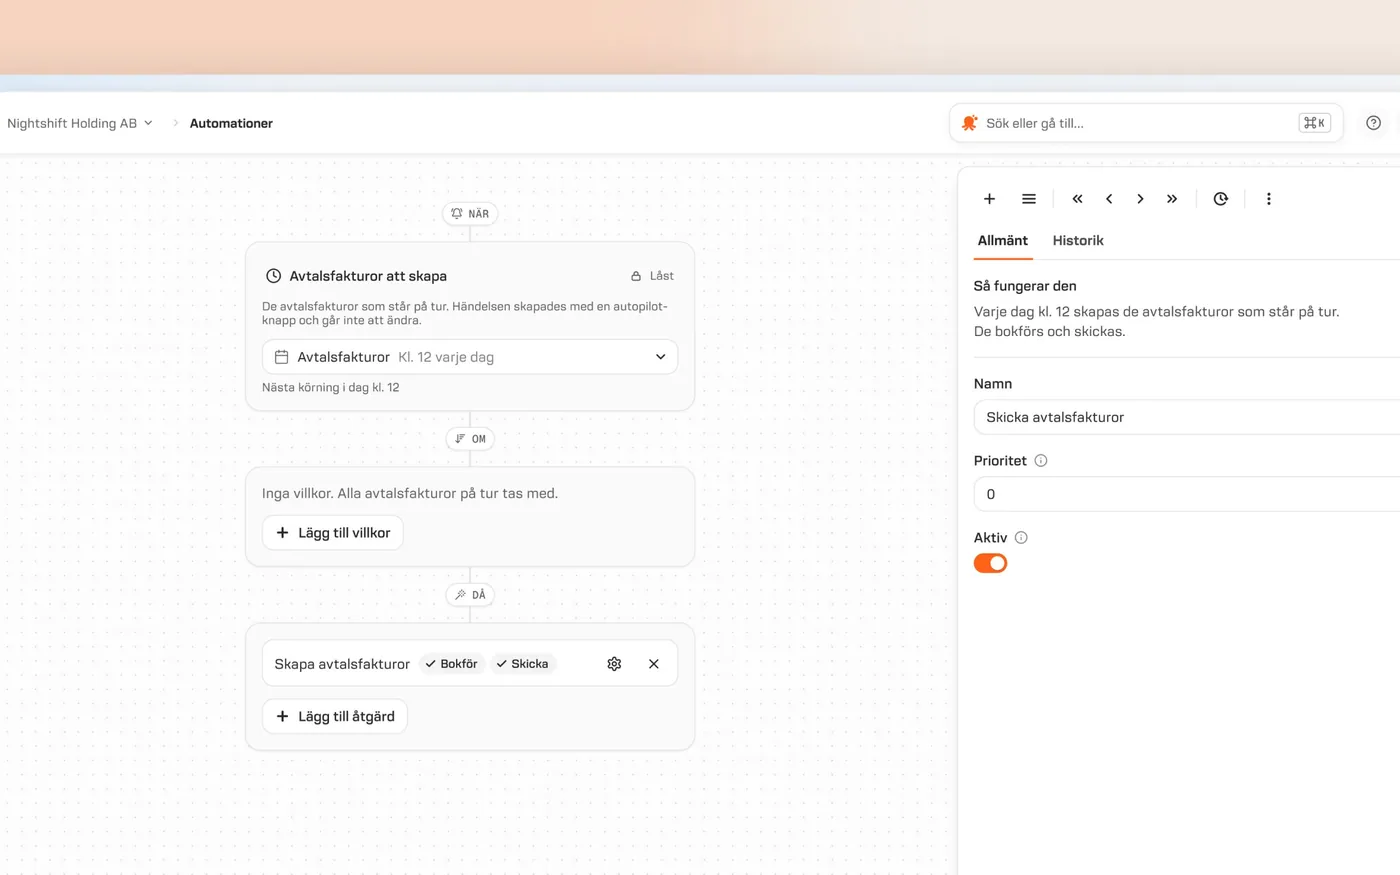
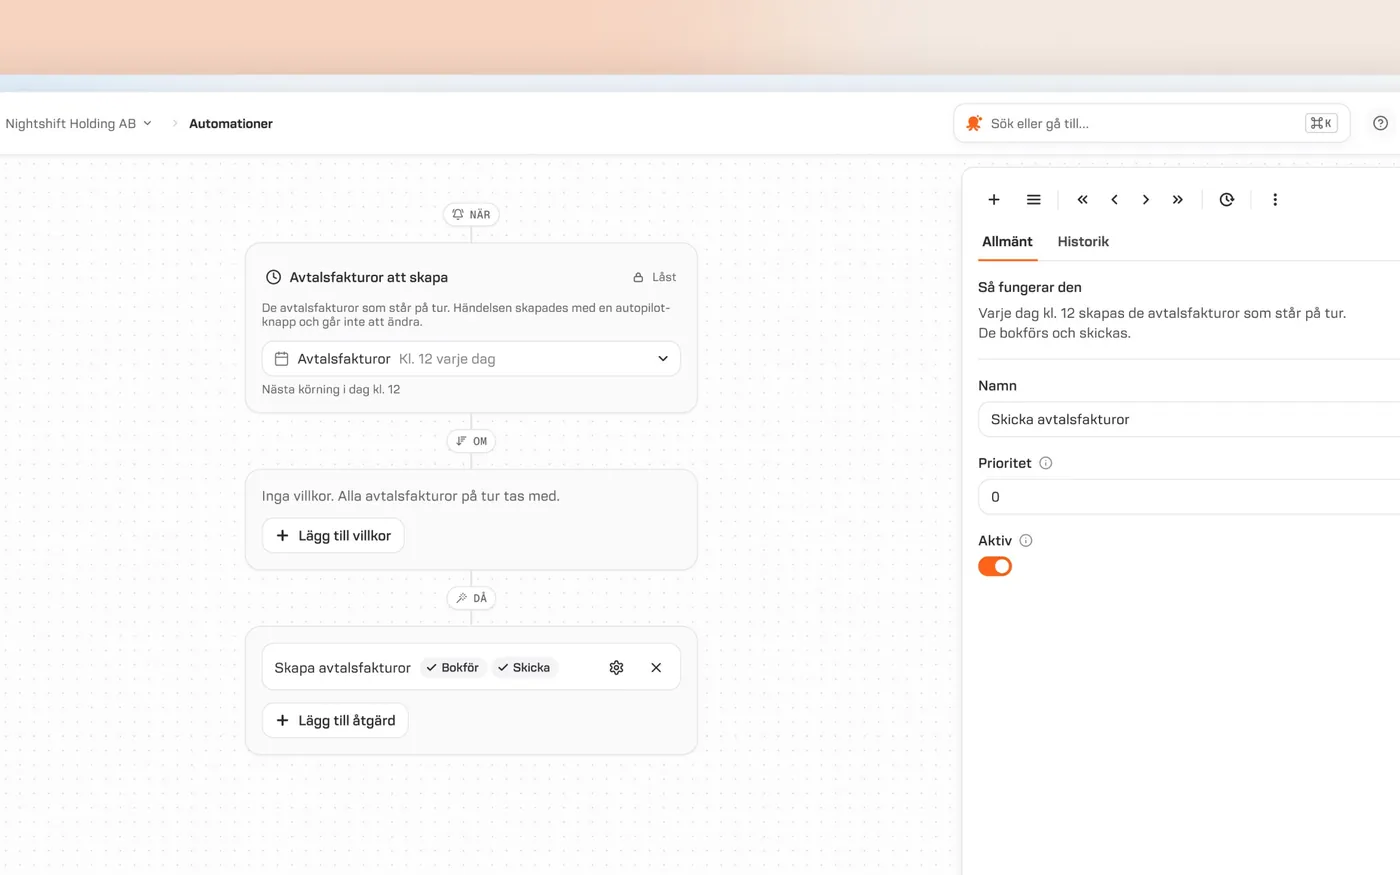
Oqto: slower hero lines, narrower Autopilot card and resized screen
Claude-Session: https://claude.ai/code/session_01T8AAM769pNUjzneeyTgJVR

diff --git a/docs/oqto/index.html b/docs/oqto/index.html
@@ -17,7 +17,7 @@
 <link rel="apple-touch-icon" href="../apple-touch-icon.png">
 <link rel="preload" href="../fonts/familjen-grotesk-latin-wght-normal.woff2" as="font" type="font/woff2" crossorigin>
 <link rel="stylesheet" href="../css/base.css?v=b94be2dc">
-<link rel="stylesheet" href="../css/oqto.css?v=e81a2f30">
+<link rel="stylesheet" href="../css/oqto.css?v=cc079173">
 <link rel="stylesheet" href="../css/site.css?v=345346bf">
 <script>(function(){try{try{localStorage.removeItem("theme")}catch(e){}var t=sessionStorage.getItem("theme");if(t==="dk"||t==="lt")document.documentElement.classList.add(t)}catch(e){}})();</script>
 <noscript><style>.rv{opacity:1!important}.rv .zm,.rv .st,.rv .bl{transform:none!important}.rv .st span{opacity:1!important}.rv .ck path{stroke-dashoffset:0!important}.ic .s{stroke-dashoffset:0!important}.ic .nd{transform:none!important}</style></noscript>
@@ -114,7 +114,7 @@
 </div>
 </div>
 <div data-px="1" data-rv="6" data-lb="1" tabindex="0" role="button" aria-label="Enlarge image" class="rv c-clip"><img class="zm px" src="../assets/oqto-screens-1400.webp?v=df0c9d02" srcset="../assets/oqto-screens-800.webp?v=8f604210 800w, ../assets/oqto-screens-1400.webp?v=df0c9d02 1400w, ../assets/oqto-screens.webp?v=95bce654 2400w" sizes="(min-width: 1440px) 1200px, 92vw" data-lbsrc="../assets/oqto-screens.webp?v=95bce654" loading="lazy" decoding="async" alt="Oqto screens in an isometric grid, including the command palette, month-end closing and a customer invoice in dark mode" width="2400" height="1500"></div>
-<div data-rv="5" data-lb="1" tabindex="0" role="button" aria-label="Enlarge image" class="rv c-clip"><div class="zm an ap"><img src="../assets/oqto-autopilot-screen-1400.webp?v=68519617" srcset="../assets/oqto-autopilot-screen-800.webp?v=9b5673f3 800w, ../assets/oqto-autopilot-screen-1400.webp?v=68519617 1400w, ../assets/oqto-autopilot-screen.webp?v=a3b65554 2400w" sizes="(min-width: 1440px) 1200px, 92vw" loading="lazy" decoding="async" data-lbsrc="../assets/oqto-autopilot.webp?v=fb879221" alt="The automation editor in Oqto with a when, if and then flow, and the automation’s card on top" width="2400" height="1500">
+<div data-rv="5" data-lb="1" tabindex="0" role="button" aria-label="Enlarge image" class="rv c-clip"><div class="zm an ap"><img src="../assets/oqto-autopilot-screen-1400.webp?v=e877b4d3" srcset="../assets/oqto-autopilot-screen-800.webp?v=689e47ad 800w, ../assets/oqto-autopilot-screen-1400.webp?v=e877b4d3 1400w, ../assets/oqto-autopilot-screen.webp?v=055c99a0 2400w" sizes="(min-width: 1440px) 1200px, 92vw" loading="lazy" decoding="async" data-lbsrc="../assets/oqto-autopilot.webp?v=69045211" alt="The automation editor in Oqto with a when, if and then flow, and the automation’s card on top" width="2400" height="1500">
 <div aria-hidden="true"><i class="fl f1"></i><i class="fl f2"></i><i class="fl f3"></i><i class="fl f4"></i><i class="fl f5"></i><i data-rv="8" class="ac rv c-e239d3"></i></div></div></div>
 </section>
 

diff --git a/docs/css/oqto.css b/docs/css/oqto.css
@@ -10,9 +10,9 @@
 .ck{left:71.278%;top:76.72%;width:2.134%;overflow:visible;fill:none;stroke:#fff;stroke-width:12.8;stroke-linecap:round;stroke-linejoin:round}
 .ck path{stroke-dasharray:1;stroke-dashoffset:0}
 .ap{container-type:inline-size}
-.ac{left:59.375%;top:69.05%;width:34.375%;aspect-ratio:1100/509;border-radius:2.545%/5.5%;background-size:cover;box-shadow:0 1.25cqw 3.44cqw rgba(60,40,20,.3),0 .125cqw .375cqw rgba(60,40,20,.1)}
-.fl{left:33.5%;width:.125%;height:2%;background:#FF6319;border-radius:999px;opacity:0;transform-origin:50% 0}
-.f1{top:25.667%}.f2{top:46.867%}.f3{top:51.4%}.f4{top:64.733%}.f5{top:69.2%;height:2.067%}
+.ac{left:65.406%;top:68.6%;width:28.125%;aspect-ratio:900/520;border-radius:3.222%/5.577%;background-size:cover;box-shadow:0 1.25cqw 3.44cqw rgba(60,40,20,.3),0 .125cqw .375cqw rgba(60,40,20,.1)}
+.fl{left:33.585%;width:.126%;height:2.05%;background:#FF6319;border-radius:999px;opacity:0;transform-origin:50% 0}
+.f1{top:25.78%}.f2{top:47.13%}.f3{top:51.67%}.f4{top:65.07%}.f5{top:69.6%;height:2.1%}
 .ld .li{position:absolute;inset:-1px;width:calc(100% + 2px);height:calc(100% + 2px);clip-path:polygon(0 0,53.125% 0,31.25% 100%,0 100%)}
 .cl{display:flex;aspect-ratio:16/10;container-type:inline-size}
 .st{position:relative;transform-origin:50% 100%}
@@ -29,8 +29,8 @@
 @keyframes ocB{from{transform:translate(-6%,10%)}to{transform:translate(8%,-16%)}}
 .hq{animation:hl1 6s cubic-bezier(.45,0,.2,1) 1s infinite}
 .q2{animation-name:hl2}
-@keyframes hl1{0%{opacity:1;transform:scaleX(0)}7%{opacity:1;transform:scaleX(1)}30%{opacity:1;transform:scaleX(1)}40%,100%{opacity:0;transform:scaleX(1)}}
-@keyframes hl2{0%,7%{opacity:1;transform:scaleX(0)}14%{opacity:1;transform:scaleX(1)}30%{opacity:1;transform:scaleX(1)}40%,100%{opacity:0;transform:scaleX(1)}}
+@keyframes hl1{0%{opacity:1;transform:scaleX(0)}12%{opacity:1;transform:scaleX(1)}36%{opacity:1;transform:scaleX(1)}46%,100%{opacity:0;transform:scaleX(1)}}
+@keyframes hl2{0%,12%{opacity:1;transform:scaleX(0)}24%{opacity:1;transform:scaleX(1)}36%{opacity:1;transform:scaleX(1)}46%,100%{opacity:0;transform:scaleX(1)}}
 .sw{animation:swT 5s cubic-bezier(.4,0,.2,1) 1s infinite}
 .sw i{animation:swK 5s cubic-bezier(.4,0,.2,1) 1s infinite}
 @keyframes swT{0%,30%{background:#FF6319}38%,62%{background:#CFCBC6}70%,100%{background:#FF6319}}

diff --git a/site/css/oqto.css b/site/css/oqto.css
@@ -10,9 +10,9 @@
 .ck{left:71.278%;top:76.72%;width:2.134%;overflow:visible;fill:none;stroke:#fff;stroke-width:12.8;stroke-linecap:round;stroke-linejoin:round}
 .ck path{stroke-dasharray:1;stroke-dashoffset:0}
 .ap{container-type:inline-size}
-.ac{left:59.375%;top:69.05%;width:34.375%;aspect-ratio:1100/509;border-radius:2.545%/5.5%;background-size:cover;box-shadow:0 1.25cqw 3.44cqw rgba(60,40,20,.3),0 .125cqw .375cqw rgba(60,40,20,.1)}
-.fl{left:33.5%;width:.125%;height:2%;background:#FF6319;border-radius:999px;opacity:0;transform-origin:50% 0}
-.f1{top:25.667%}.f2{top:46.867%}.f3{top:51.4%}.f4{top:64.733%}.f5{top:69.2%;height:2.067%}
+.ac{left:65.406%;top:68.6%;width:28.125%;aspect-ratio:900/520;border-radius:3.222%/5.577%;background-size:cover;box-shadow:0 1.25cqw 3.44cqw rgba(60,40,20,.3),0 .125cqw .375cqw rgba(60,40,20,.1)}
+.fl{left:33.585%;width:.126%;height:2.05%;background:#FF6319;border-radius:999px;opacity:0;transform-origin:50% 0}
+.f1{top:25.78%}.f2{top:47.13%}.f3{top:51.67%}.f4{top:65.07%}.f5{top:69.6%;height:2.1%}
 .ld .li{position:absolute;inset:-1px;width:calc(100% + 2px);height:calc(100% + 2px);clip-path:polygon(0 0,53.125% 0,31.25% 100%,0 100%)}
 .cl{display:flex;aspect-ratio:16/10;container-type:inline-size}
 .st{position:relative;transform-origin:50% 100%}
@@ -29,8 +29,8 @@
 @keyframes ocB{from{transform:translate(-6%,10%)}to{transform:translate(8%,-16%)}}
 .hq{animation:hl1 6s cubic-bezier(.45,0,.2,1) 1s infinite}
 .q2{animation-name:hl2}
-@keyframes hl1{0%{opacity:1;transform:scaleX(0)}7%{opacity:1;transform:scaleX(1)}30%{opacity:1;transform:scaleX(1)}40%,100%{opacity:0;transform:scaleX(1)}}
-@keyframes hl2{0%,7%{opacity:1;transform:scaleX(0)}14%{opacity:1;transform:scaleX(1)}30%{opacity:1;transform:scaleX(1)}40%,100%{opacity:0;transform:scaleX(1)}}
+@keyframes hl1{0%{opacity:1;transform:scaleX(0)}12%{opacity:1;transform:scaleX(1)}36%{opacity:1;transform:scaleX(1)}46%,100%{opacity:0;transform:scaleX(1)}}
+@keyframes hl2{0%,12%{opacity:1;transform:scaleX(0)}24%{opacity:1;transform:scaleX(1)}36%{opacity:1;transform:scaleX(1)}46%,100%{opacity:0;transform:scaleX(1)}}
 .sw{animation:swT 5s cubic-bezier(.4,0,.2,1) 1s infinite}
 .sw i{animation:swK 5s cubic-bezier(.4,0,.2,1) 1s infinite}
 @keyframes swT{0%,30%{background:#FF6319}38%,62%{background:#CFCBC6}70%,100%{background:#FF6319}}

diff --git a/docs/css/main.css b/docs/css/main.css
@@ -49,8 +49,8 @@ html.dk :is(#work,#services,#about)::before{background:#2A2A28}}
 @keyframes ocB{from{transform:translate(-6%,10%)}to{transform:translate(8%,-16%)}}
 .hq{animation:hl1 6s cubic-bezier(.45,0,.2,1) 1s infinite}
 .q2{animation-name:hl2}
-@keyframes hl1{0%{opacity:1;transform:scaleX(0)}7%{opacity:1;transform:scaleX(1)}30%{opacity:1;transform:scaleX(1)}40%,100%{opacity:0;transform:scaleX(1)}}
-@keyframes hl2{0%,7%{opacity:1;transform:scaleX(0)}14%{opacity:1;transform:scaleX(1)}30%{opacity:1;transform:scaleX(1)}40%,100%{opacity:0;transform:scaleX(1)}}
+@keyframes hl1{0%{opacity:1;transform:scaleX(0)}12%{opacity:1;transform:scaleX(1)}36%{opacity:1;transform:scaleX(1)}46%,100%{opacity:0;transform:scaleX(1)}}
+@keyframes hl2{0%,12%{opacity:1;transform:scaleX(0)}24%{opacity:1;transform:scaleX(1)}36%{opacity:1;transform:scaleX(1)}46%,100%{opacity:0;transform:scaleX(1)}}
 .sw{animation:swT 5s cubic-bezier(.4,0,.2,1) 1s infinite}
 .sw i{animation:swK 5s cubic-bezier(.4,0,.2,1) 1s infinite}
 @keyframes swT{0%,30%{background:#FF6319}38%,62%{background:#CFCBC6}70%,100%{background:#FF6319}}

diff --git a/site/css/main.css b/site/css/main.css
@@ -49,8 +49,8 @@ html.dk :is(#work,#services,#about)::before{background:#2A2A28}}
 @keyframes ocB{from{transform:translate(-6%,10%)}to{transform:translate(8%,-16%)}}
 .hq{animation:hl1 6s cubic-bezier(.45,0,.2,1) 1s infinite}
 .q2{animation-name:hl2}
-@keyframes hl1{0%{opacity:1;transform:scaleX(0)}7%{opacity:1;transform:scaleX(1)}30%{opacity:1;transform:scaleX(1)}40%,100%{opacity:0;transform:scaleX(1)}}
-@keyframes hl2{0%,7%{opacity:1;transform:scaleX(0)}14%{opacity:1;transform:scaleX(1)}30%{opacity:1;transform:scaleX(1)}40%,100%{opacity:0;transform:scaleX(1)}}
+@keyframes hl1{0%{opacity:1;transform:scaleX(0)}12%{opacity:1;transform:scaleX(1)}36%{opacity:1;transform:scaleX(1)}46%,100%{opacity:0;transform:scaleX(1)}}
+@keyframes hl2{0%,12%{opacity:1;transform:scaleX(0)}24%{opacity:1;transform:scaleX(1)}36%{opacity:1;transform:scaleX(1)}46%,100%{opacity:0;transform:scaleX(1)}}
 .sw{animation:swT 5s cubic-bezier(.4,0,.2,1) 1s infinite}
 .sw i{animation:swK 5s cubic-bezier(.4,0,.2,1) 1s infinite}
 @keyframes swT{0%,30%{background:#FF6319}38%,62%{background:#CFCBC6}70%,100%{background:#FF6319}}

diff --git a/docs/index.html b/docs/index.html
@@ -18,7 +18,7 @@
 <link rel="apple-touch-icon" href="apple-touch-icon.png">
 <link rel="preload" href="fonts/familjen-grotesk-latin-wght-normal.woff2" as="font" type="font/woff2" crossorigin>
 <link rel="stylesheet" href="css/base.css?v=b94be2dc">
-<link rel="stylesheet" href="css/main.css?v=3cedf044">
+<link rel="stylesheet" href="css/main.css?v=dbe5a1f5">
 <link rel="stylesheet" href="css/site.css?v=345346bf">
 <script>(function(){try{try{localStorage.removeItem("theme")}catch(e){}var t=sessionStorage.getItem("theme");if(t==="dk"||t==="lt")document.documentElement.classList.add(t)}catch(e){}})();</script>
 <noscript><style>.rv{opacity:1!important}.rv .zm,.rv .st,.rv .bl{transform:none!important}.rv .st span{opacity:1!important}.rv .ck path{stroke-dashoffset:0!important}.ic .s{stroke-dashoffset:0!important}.ic .nd{transform:none!important}</style></noscript>

diff --git a/site/build.py b/site/build.py
@@ -21,8 +21,8 @@ ASSETS = {
     "c34dd534a3003ee261711ca87890d62c": "oqto-dark.jpg", "b7a1f7ae78d363ddf79c024ff4bfa8f4": "oqto-light.jpg",
     "c34b591a7f8fddf09f75926bdbe9cb4d": "oqto-screens.jpg", "9aed89d8ef290ab64dbcbde6ca8f4fda": "oqto-screens.jpg", "6f9deb035305d822828b08e689c25451": "oqto-screens.jpg", "58bfc0c4270a375bc74b6d5220c08759": "oqto-screens.jpg",
     "58de01b9072eda84254cd01a48c40ef2": "oqto-hero.jpg", "39ef734d077cfb8ce0194b15663db30b": "oqto-hero-full.jpg",
-    "00db4c69fd2e0aa038586b4ba858594d": "oqto-autopilot-screen.jpg", "ada73faea49793362f20003dd2f82501": "oqto-autopilot.jpg",
-    "a8b8fe48d8d800eca11038860916017b": "oqto-autopilot-card.jpg", "9aa647c4ebf37b042b20b8b87da433a1": "oqto-components.jpg", "65ae19d31029925e96dfdd8e898d1392": "oqto-components.jpg",
+    "61a378bf7433de32c670c178063634b2": "oqto-autopilot-screen.jpg", "383cff83cd54a399877734eba3790234": "oqto-autopilot.jpg",
+    "43354ec57226250cefeb1cbb4d54810b": "oqto-autopilot-card.jpg", "9aa647c4ebf37b042b20b8b87da433a1": "oqto-components.jpg", "65ae19d31029925e96dfdd8e898d1392": "oqto-components.jpg",
     "a06f2b58758b6fb555fed11e960a2e03": "oqto-app.jpg", "e12f6c6e1533b4a8be48896524a14591": "oqto-app.jpg",
     "637462e7e8cb1a3e784b541fafad197d": "tink-logo.jpg", "d231f1039acc7b8c33ee891994a401d8": "tink-logo.jpg", "6e3a6e0409bc43d9788ccd3c57f38416": "tink-colours.jpg",
     "8ccadca1c7c70a65154867eb4540ba2f": "tink-poster.jpg", "9a65abafdb9345d5e481ffe969c22879": "tink-type.jpg",
